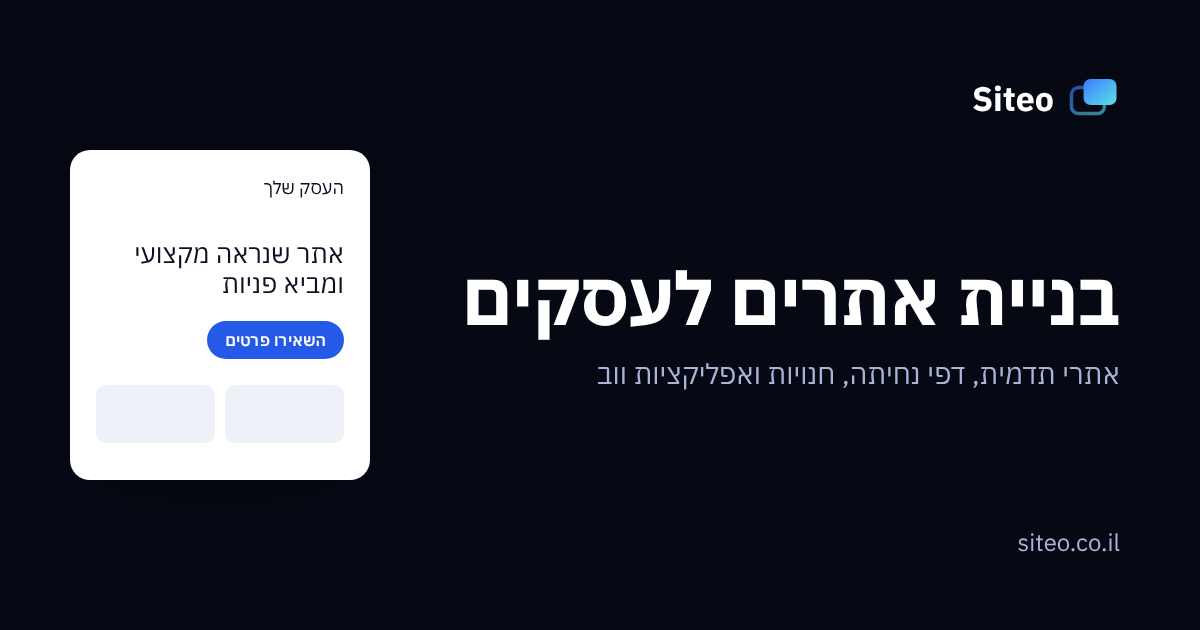
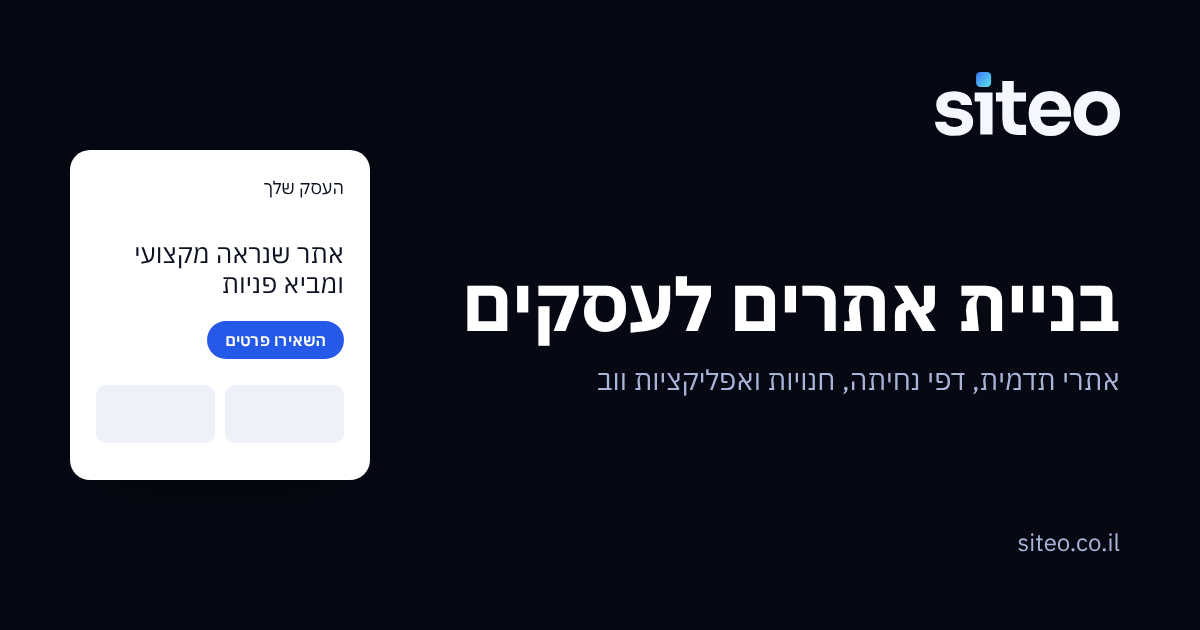
לוגו חדש: siteo עם פיקסל צבעוני (כותרת, פוטר, אייקונים ותמונת שיתוף)
Claude-Session: https://claude.ai/code/session_01PYLTTRwM12exnSJeipcmuR

Changed region(s): [[0.37, 0.4222, 0.925, 0.5429], [0.4933, 0.573, 0.925, 0.6333], [0.7708, 0.1206, 0.9558, 0.2111]]

diff --git a/index.html b/index.html
@@ -660,7 +660,7 @@ h1,h2,h3{font-family:var(--f-display);letter-spacing:-.01em}
 /* brand */
 .brand{font-family:var(--f-body);font-weight:600;font-size:19px;gap:12px}
 .brand-mark{width:30px;height:30px;background:none;padding:0;border-radius:0}
-.brand-mark svg{display:block}
+.brand-mark svg{display:block}.brand-logo{display:block;height:28px;width:auto}.x-footer .brand-logo{height:30px}
 
 /* nav + buttons */
 .nav-links a{font-weight:500;font-size:15px}
@@ -1081,8 +1081,7 @@ html.a11y-contrast .x-inc{background:#000 !important}
 <header class="site-header dark" id="top">
   <div class="wrap nav">
     <a class="brand" href="#top" aria-label="Siteo – בניית אתרים, לראש העמוד">
-      <span class="brand-mark" aria-hidden="true"><svg width="30" height="30" viewBox="0 0 30 30"><defs><linearGradient id="bm" x1="0" y1="0" x2="1" y2="1"><stop offset="0" stop-color="#3D7BFF"/><stop offset="1" stop-color="#5CE1E6"/></linearGradient></defs><rect x="2" y="9" width="19" height="15" rx="4" fill="none" stroke="url(#bm)" stroke-width="2" opacity=".6"/><rect x="9" y="4" width="19" height="15" rx="4" fill="url(#bm)"/></svg></span>
-      <span class="brand-word">Siteo</span>
+      <svg class="brand-logo" xmlns="http://www.w3.org/2000/svg" aria-hidden="true" focusable="false" viewBox="0 0 346.89 120.00"><defs><linearGradient id="wgh1" x1="0" y1="0" x2="1" y2="1"><stop offset="0" stop-color="#3D7BFF"/><stop offset="1" stop-color="#5CE1E6"/></linearGradient></defs><path d="M36.45 119.71Q19.59 119.71 10.08 112.8Q0.58 105.88 0 93.35H20.46Q21.03 97.09 24.99 100.05Q28.96 103 36.88 103Q42.93 103 46.89 100.91Q50.85 98.82 50.85 94.93Q50.85 91.48 47.83 89.39Q44.8 87.3 37.02 86.43L30.83 85.86Q16.57 84.42 9.44 77.94Q2.3 71.45 2.3 61.37Q2.3 53.01 6.48 47.39Q10.66 41.78 18.08 38.9Q25.5 36.01 35.01 36.01Q50.28 36.01 59.64 42.71Q69 49.41 69.44 62.09H48.98Q48.4 58.2 44.95 55.53Q41.49 52.87 34.72 52.87Q29.39 52.87 26.22 54.89Q23.05 56.9 23.05 60.36Q23.05 63.67 25.79 65.4Q28.52 67.13 34.72 67.85L40.91 68.43Q55.46 70.01 63.53 76.49Q71.6 82.98 71.6 93.93Q71.6 101.85 67.27 107.68Q62.95 113.52 55.03 116.61Q47.11 119.71 36.45 119.71Z M84.85 117.26V38.32H107.9V117.26ZM74.33 55.32V38.32H107.9V55.32Z M159.62 118.27Q147.66 118.27 140.31 115.32Q132.97 112.36 129.58 105.38Q126.19 98.39 126.19 86.43V17H147.66V87.3Q147.66 92.92 150.61 95.87Q153.57 98.82 159.04 98.82H170.71V118.27ZM114.24 55.17V38.32H170.71V55.17Z M216.66 120Q206.58 120 198.87 116.54Q191.16 113.09 186.05 107.25Q180.94 101.42 178.27 94.14Q175.61 86.87 175.61 79.23V76.35Q175.61 68.43 178.27 61.15Q180.94 53.88 185.98 48.12Q191.02 42.35 198.58 38.97Q206.15 35.58 215.8 35.58Q228.48 35.58 237.19 41.27Q245.91 46.96 250.52 56.11Q255.13 65.26 255.13 76.06V83.84H185.26V70.73H241.15L233.66 76.78Q233.66 69.72 231.64 64.68Q229.63 59.64 225.67 56.97Q221.7 54.31 215.8 54.31Q209.75 54.31 205.57 57.05Q201.39 59.78 199.23 65.04Q197.07 70.3 197.07 77.94Q197.07 84.99 199.09 90.25Q201.1 95.51 205.43 98.39Q209.75 101.27 216.66 101.27Q223 101.27 227.03 98.82Q231.07 96.37 232.51 92.77H253.69Q251.96 100.7 246.91 106.89Q241.87 113.09 234.24 116.54Q226.6 120 216.66 120Z M303.39 120Q293.01 120 284.95 116.76Q276.88 113.52 271.33 107.9Q265.79 102.28 262.91 95.01Q260.02 87.73 260.02 79.66V76.35Q260.02 68.14 262.98 60.72Q265.93 53.3 271.62 47.68Q277.31 42.06 285.38 38.82Q293.45 35.58 303.39 35.58Q313.61 35.58 321.61 38.82Q329.6 42.06 335.22 47.68Q340.84 53.3 343.87 60.72Q346.89 68.14 346.89 76.35V79.66Q346.89 87.73 344.01 95.01Q341.13 102.28 335.58 107.9Q330.04 113.52 321.97 116.76Q313.9 120 303.39 120ZM303.39 100.55Q310.16 100.55 314.62 97.67Q319.09 94.79 321.46 89.6Q323.84 84.42 323.84 78.08Q323.84 71.31 321.39 66.19Q318.94 61.08 314.41 58.06Q309.87 55.03 303.39 55.03Q297.05 55.03 292.44 58.06Q287.83 61.08 285.45 66.19Q283.07 71.31 283.07 78.08Q283.07 84.42 285.38 89.6Q287.68 94.79 292.29 97.67Q296.9 100.55 303.39 100.55Z" fill="#F4F7FF"/><rect x="77.00" y="0.00" width="28.24" height="28.24" rx="7.91" fill="url(#wgh1)"/></svg>
     </a>
     <nav aria-label="ניווט ראשי">
       <ul class="nav-links">
@@ -1368,8 +1367,7 @@ html.a11y-contrast .x-inc{background:#000 !important}
     <div class="f-top">
       <div class="f-brand">
         <a class="brand" href="#top" aria-label="Siteo – לראש העמוד">
-          <span class="brand-mark" aria-hidden="true"><svg width="30" height="30" viewBox="0 0 30 30"><defs><linearGradient id="bm2" x1="0" y1="0" x2="1" y2="1"><stop offset="0" stop-color="#3D7BFF"/><stop offset="1" stop-color="#5CE1E6"/></linearGradient></defs><rect x="2" y="9" width="19" height="15" rx="4" fill="none" stroke="url(#bm2)" stroke-width="2" opacity=".6"/><rect x="9" y="4" width="19" height="15" rx="4" fill="url(#bm2)"/></svg></span>
-          <span class="brand-word">Siteo</span>
+          <svg class="brand-logo" xmlns="http://www.w3.org/2000/svg" aria-hidden="true" focusable="false" viewBox="0 0 346.89 120.00"><defs><linearGradient id="wgh2" x1="0" y1="0" x2="1" y2="1"><stop offset="0" stop-color="#3D7BFF"/><stop offset="1" stop-color="#5CE1E6"/></linearGradient></defs><path d="M36.45 119.71Q19.59 119.71 10.08 112.8Q0.58 105.88 0 93.35H20.46Q21.03 97.09 24.99 100.05Q28.96 103 36.88 103Q42.93 103 46.89 100.91Q50.85 98.82 50.85 94.93Q50.85 91.48 47.83 89.39Q44.8 87.3 37.02 86.43L30.83 85.86Q16.57 84.42 9.44 77.94Q2.3 71.45 2.3 61.37Q2.3 53.01 6.48 47.39Q10.66 41.78 18.08 38.9Q25.5 36.01 35.01 36.01Q50.28 36.01 59.64 42.71Q69 49.41 69.44 62.09H48.98Q48.4 58.2 44.95 55.53Q41.49 52.87 34.72 52.87Q29.39 52.87 26.22 54.89Q23.05 56.9 23.05 60.36Q23.05 63.67 25.79 65.4Q28.52 67.13 34.72 67.85L40.91 68.43Q55.46 70.01 63.53 76.49Q71.6 82.98 71.6 93.93Q71.6 101.85 67.27 107.68Q62.95 113.52 55.03 116.61Q47.11 119.71 36.45 119.71Z M84.85 117.26V38.32H107.9V117.26ZM74.33 55.32V38.32H107.9V55.32Z M159.62 118.27Q147.66 118.27 140.31 115.32Q132.97 112.36 129.58 105.38Q126.19 98.39 126.19 86.43V17H147.66V87.3Q147.66 92.92 150.61 95.87Q153.57 98.82 159.04 98.82H170.71V118.27ZM114.24 55.17V38.32H170.71V55.17Z M216.66 120Q206.58 120 198.87 116.54Q191.16 113.09 186.05 107.25Q180.94 101.42 178.27 94.14Q175.61 86.87 175.61 79.23V76.35Q175.61 68.43 178.27 61.15Q180.94 53.88 185.98 48.12Q191.02 42.35 198.58 38.97Q206.15 35.58 215.8 35.58Q228.48 35.58 237.19 41.27Q245.91 46.96 250.52 56.11Q255.13 65.26 255.13 76.06V83.84H185.26V70.73H241.15L233.66 76.78Q233.66 69.72 231.64 64.68Q229.63 59.64 225.67 56.97Q221.7 54.31 215.8 54.31Q209.75 54.31 205.57 57.05Q201.39 59.78 199.23 65.04Q197.07 70.3 197.07 77.94Q197.07 84.99 199.09 90.25Q201.1 95.51 205.43 98.39Q209.75 101.27 216.66 101.27Q223 101.27 227.03 98.82Q231.07 96.37 232.51 92.77H253.69Q251.96 100.7 246.91 106.89Q241.87 113.09 234.24 116.54Q226.6 120 216.66 120Z M303.39 120Q293.01 120 284.95 116.76Q276.88 113.52 271.33 107.9Q265.79 102.28 262.91 95.01Q260.02 87.73 260.02 79.66V76.35Q260.02 68.14 262.98 60.72Q265.93 53.3 271.62 47.68Q277.31 42.06 285.38 38.82Q293.45 35.58 303.39 35.58Q313.61 35.58 321.61 38.82Q329.6 42.06 335.22 47.68Q340.84 53.3 343.87 60.72Q346.89 68.14 346.89 76.35V79.66Q346.89 87.73 344.01 95.01Q341.13 102.28 335.58 107.9Q330.04 113.52 321.97 116.76Q313.9 120 303.39 120ZM303.39 100.55Q310.16 100.55 314.62 97.67Q319.09 94.79 321.46 89.6Q323.84 84.42 323.84 78.08Q323.84 71.31 321.39 66.19Q318.94 61.08 314.41 58.06Q309.87 55.03 303.39 55.03Q297.05 55.03 292.44 58.06Q287.83 61.08 285.45 66.19Q283.07 71.31 283.07 78.08Q283.07 84.42 285.38 89.6Q287.68 94.79 292.29 97.67Q296.9 100.55 303.39 100.55Z" fill="#F4F7FF"/><rect x="77.00" y="0.00" width="28.24" height="28.24" rx="7.91" fill="url(#wgh2)"/></svg>
         </a>
         <p>Siteo הוא סטודיו לבניית אתרים בישראל, בהובלת נועם דיין. בונים אתרי תדמית, דפי נחיתה, חנויות אונליין ואפליקציות ווב לעסקים בכל הארץ.</p>
       </div>
